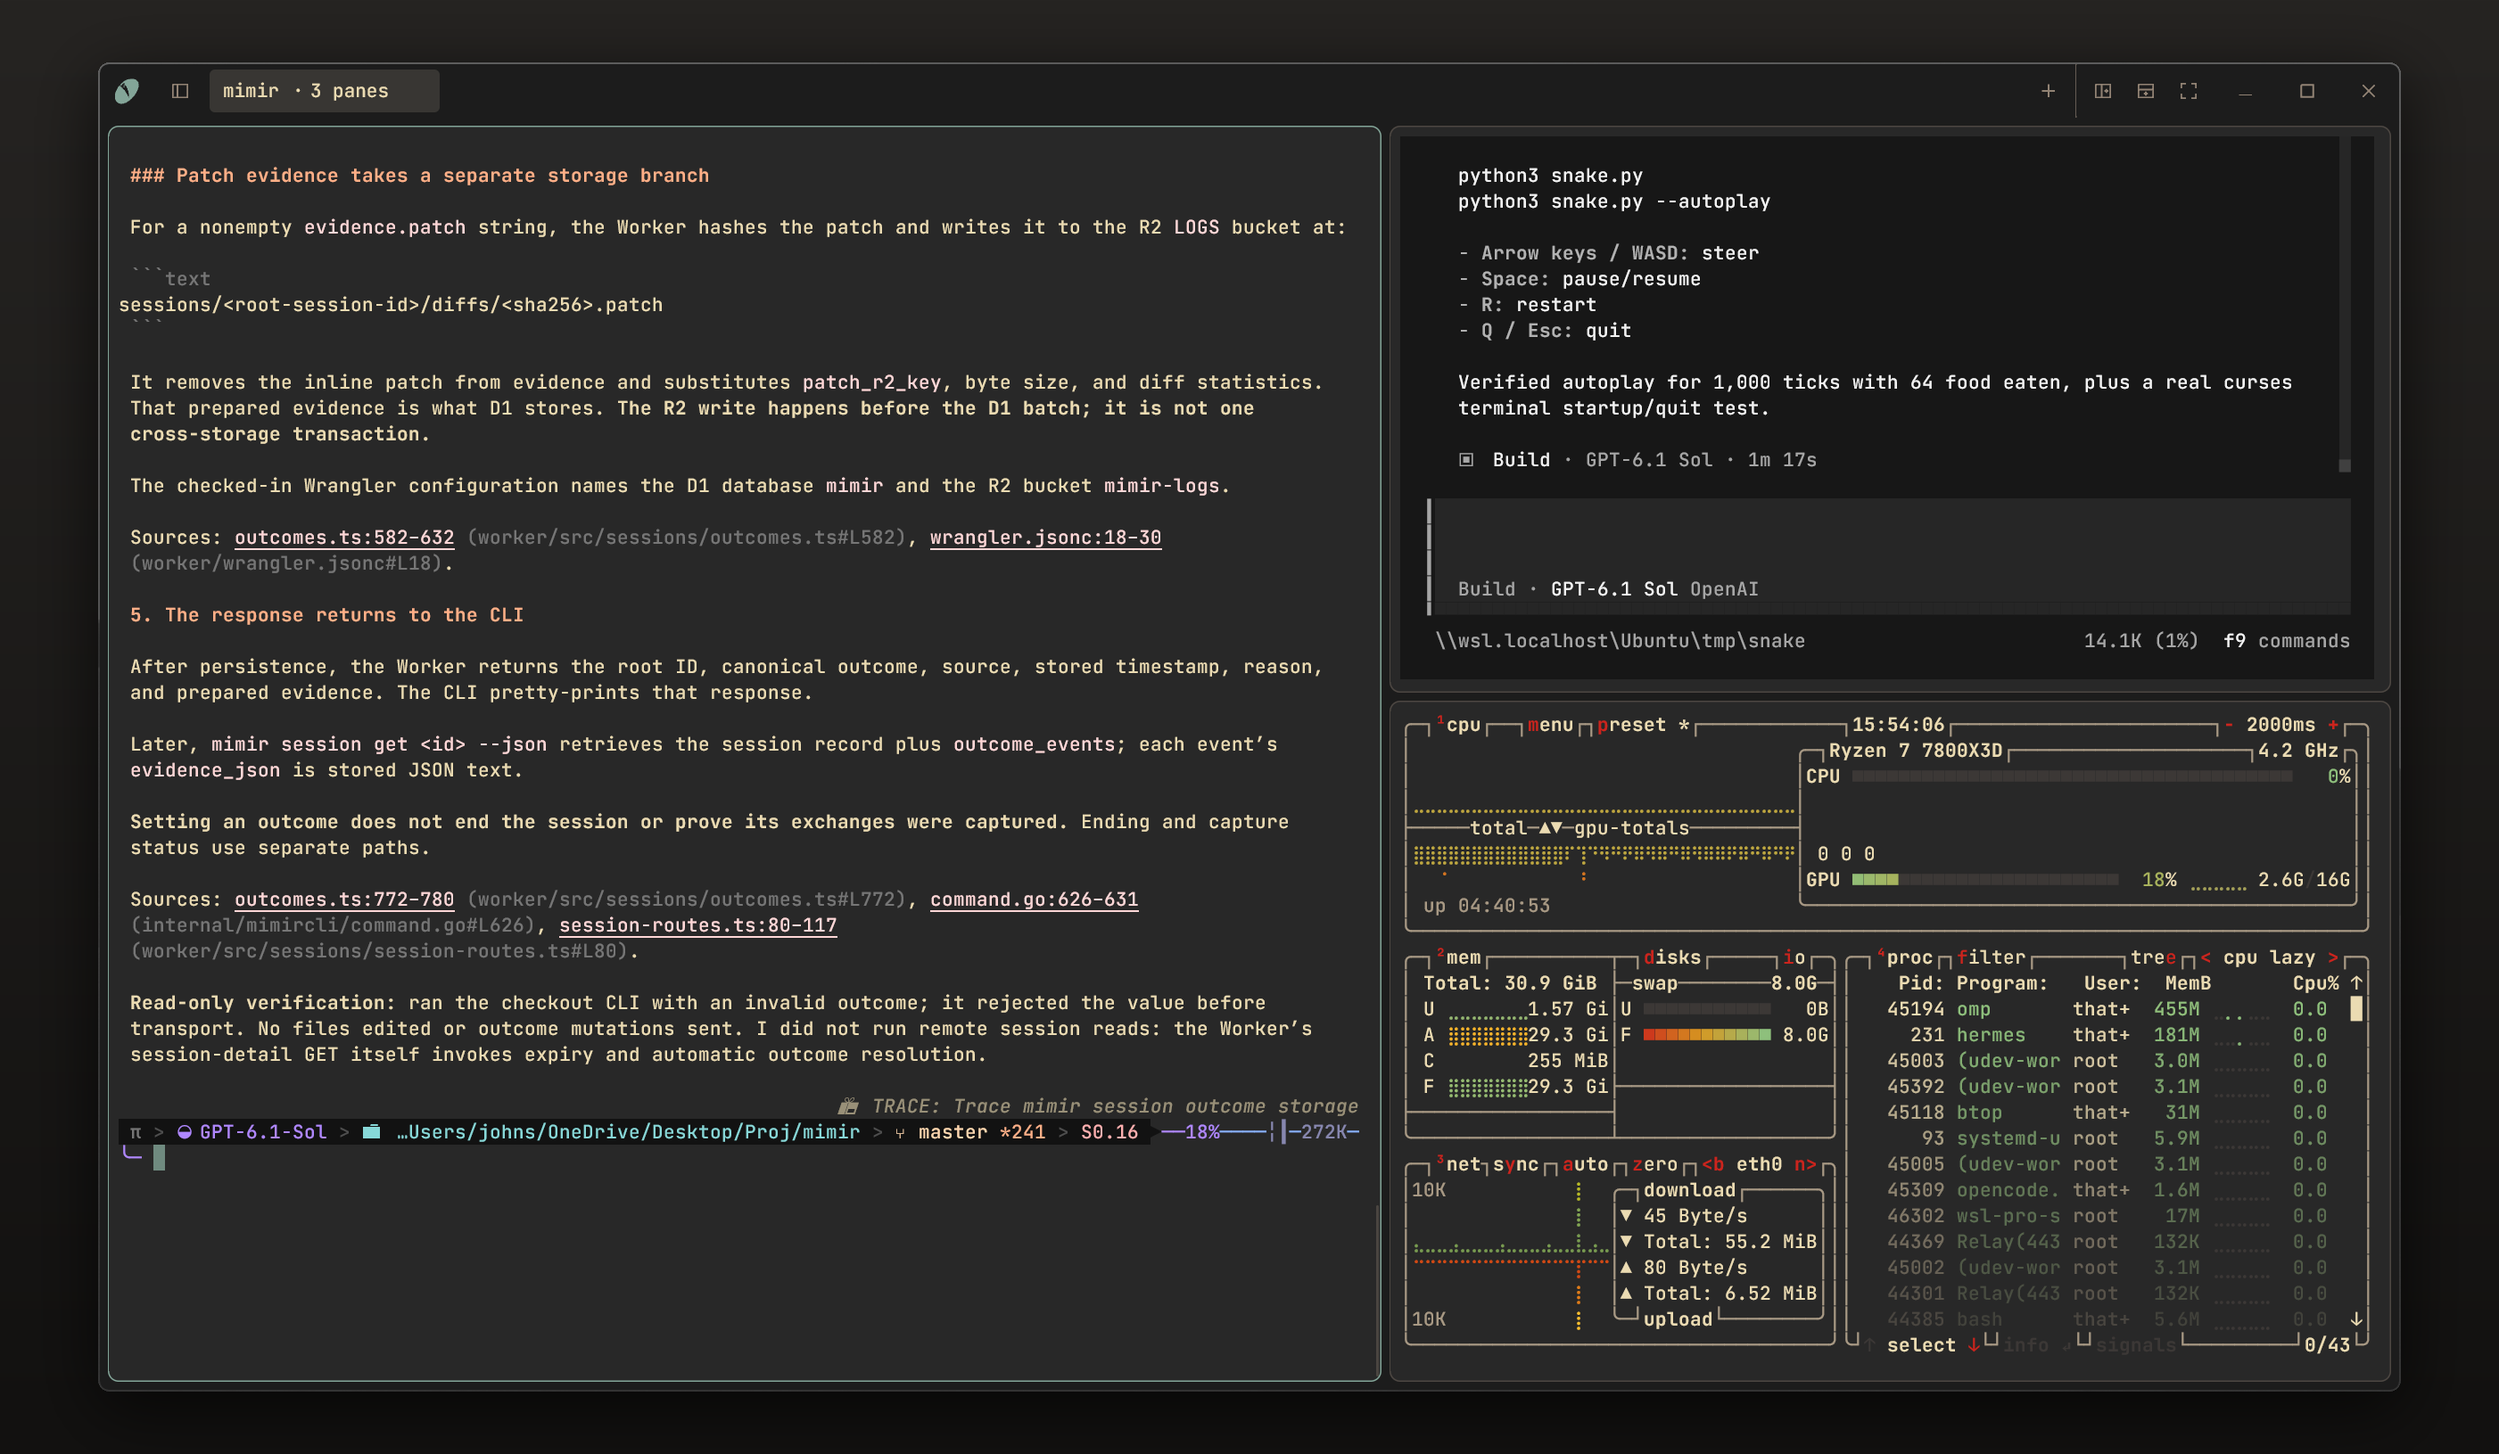
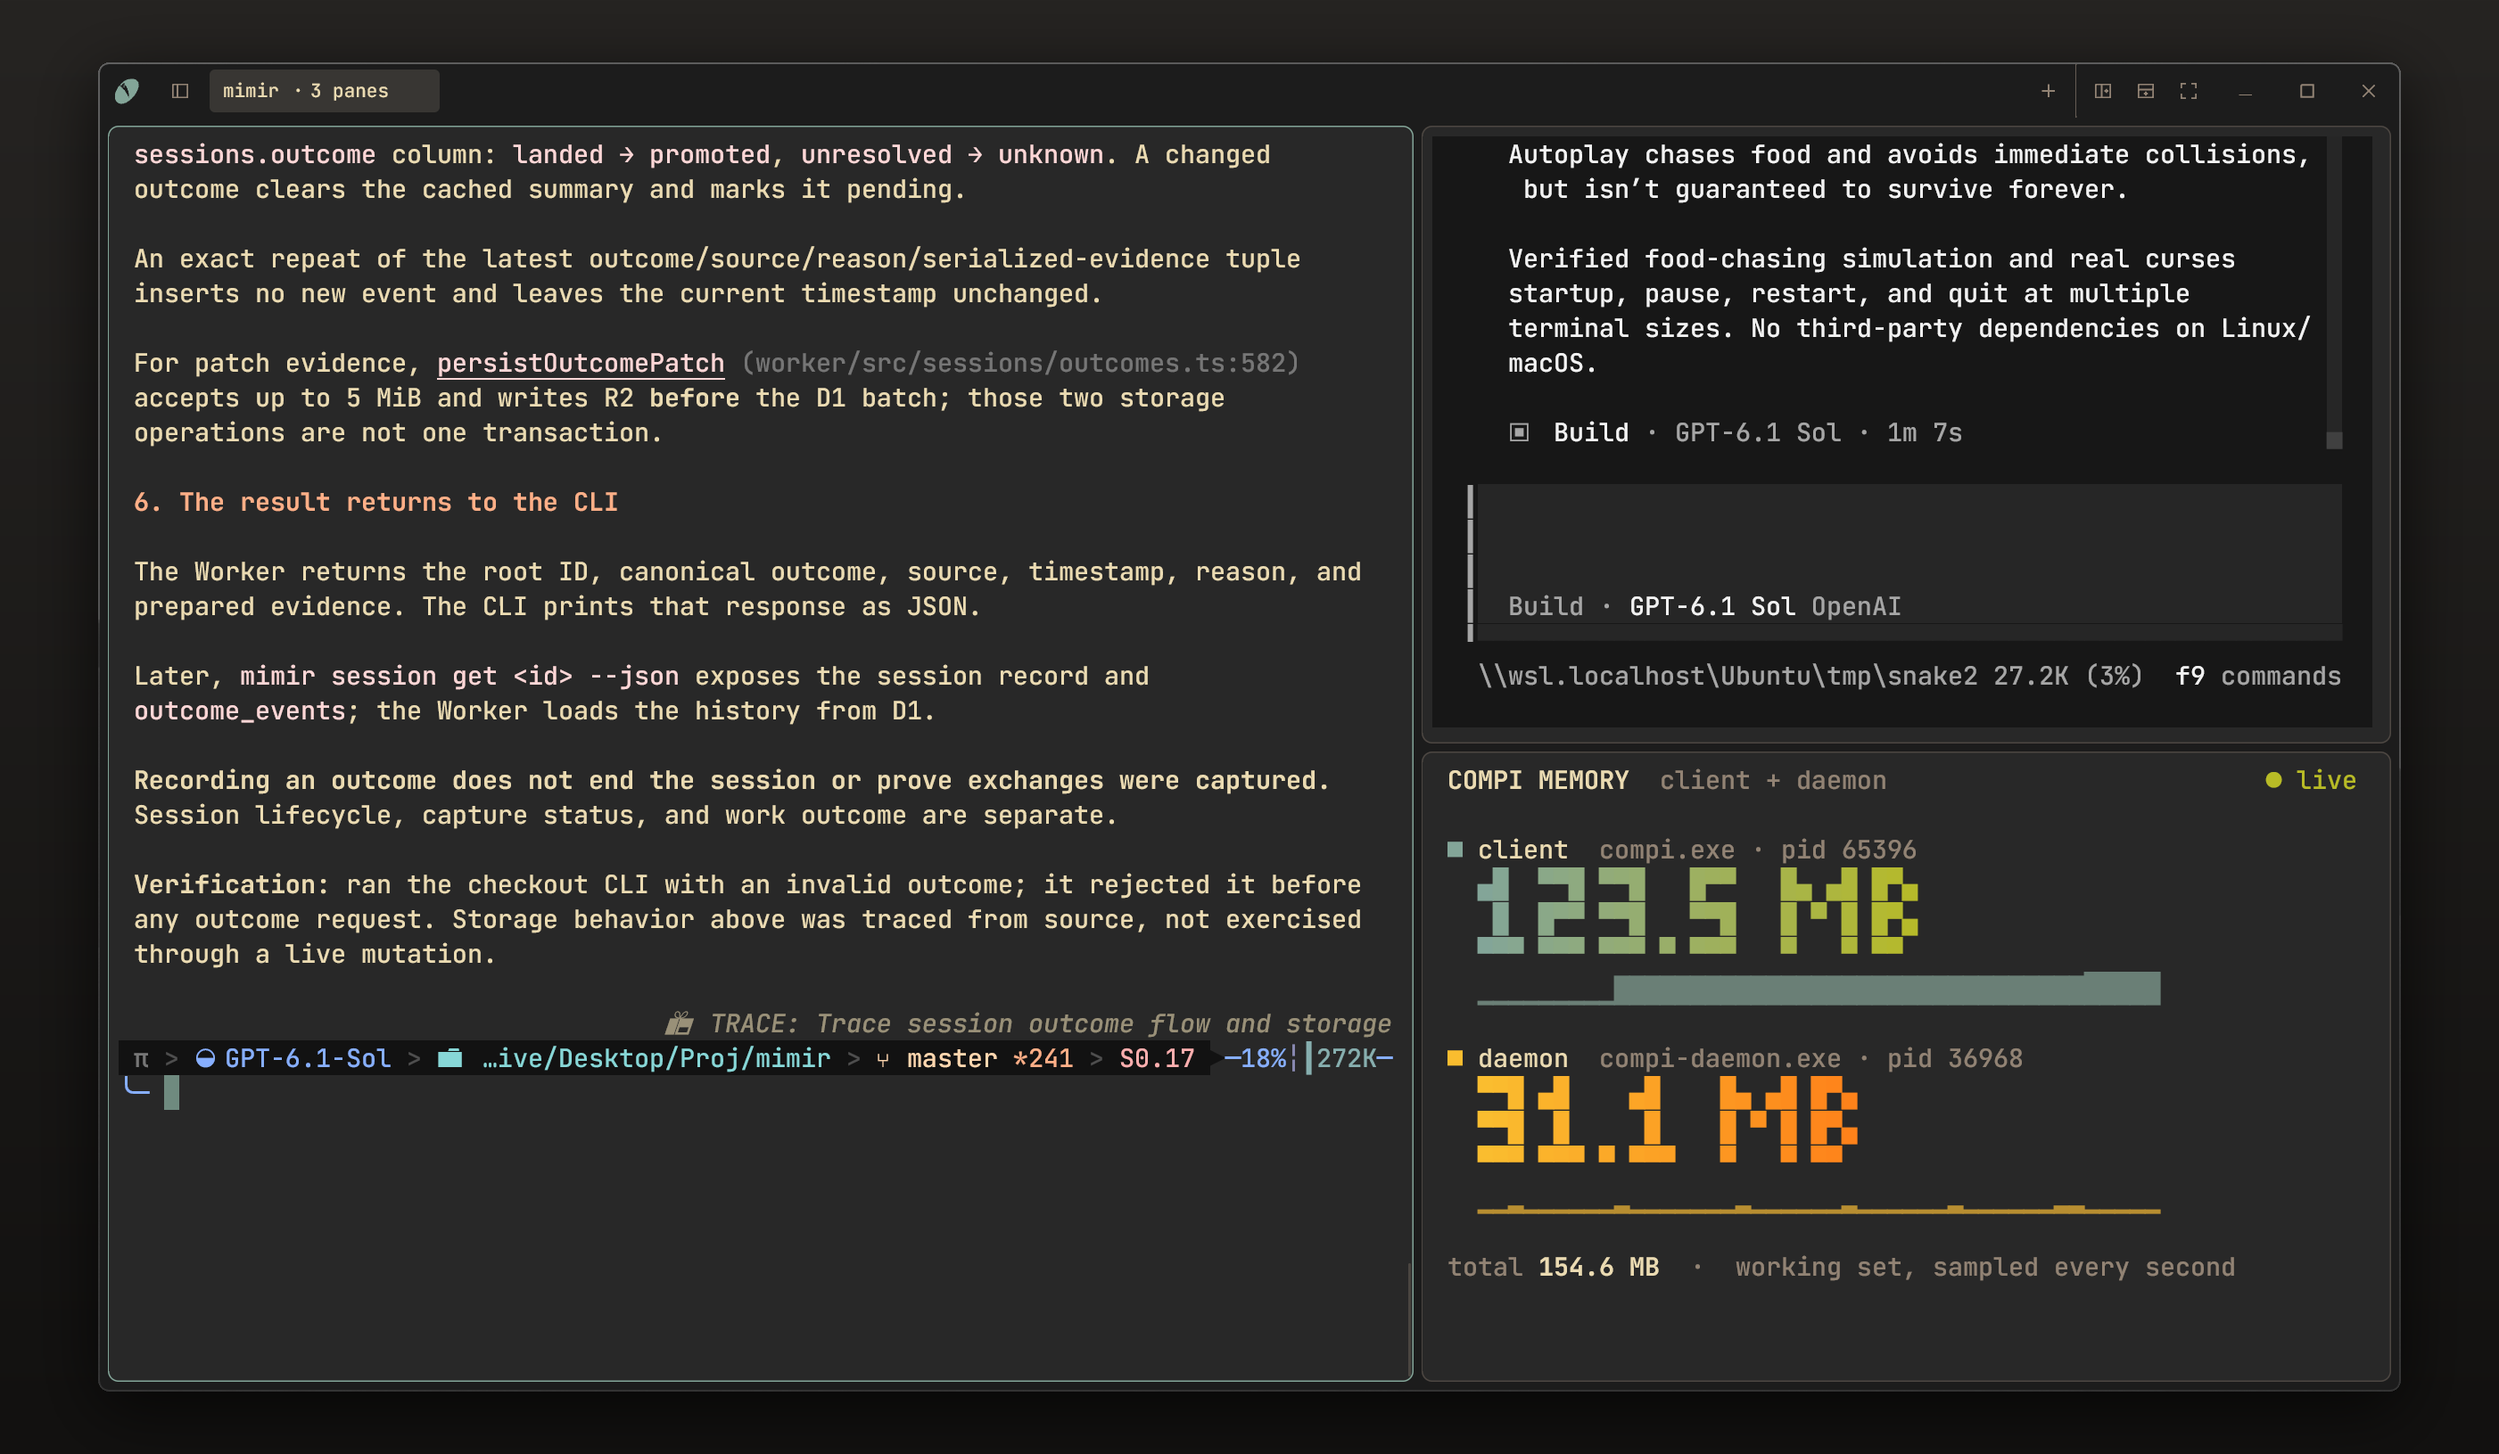
docs(release): record v0.1.7 publication and larger readme screenshot

diff --git a/docs/dev/RELEASE-FLOW.md b/docs/dev/RELEASE-FLOW.md
@@ -53,11 +53,15 @@ Publisher signing/notarization and signed updater metadata are separate concerns
 
 `docs/user/release-notes.md` is the one source. The client embeds it at build time and shows it only when its heading matches the client version: once as the **What's new** card in the sidebar after an update (an accent dot on the sidebar button until the sidebar is opened; the card until its × is clicked), and always under **What's new in <version>** in **Settings → Updates**. The workflow signs it into the update metadata, which the update dialog shows before installing, and uses it as the draft GitHub release body. Editing only the GitHub description afterward changes neither the app nor the updater, so write final notes before tagging.
 
-## Latest release: v0.1.6
+## Latest release: v0.1.7
+
+Published 2026-10-09 as the stable latest release from tag `v0.1.7` (`d23c0c2`). Agent CLI with pane metadata, `compi update`/`changes`/`--version`, Comfy pane density, WSL startup speedups, lost shells restarting in their last folder, and one-click End. The first tag (`0e87486`) failed Linux core CI because `compi update` imported the desktop-only window host; the fix was committed and the unpublished tag moved before any draft existed. Read back: 12 assets; signed Windows metadata with version 0.1.7, protocol 18, qualified daemon 0.1.7 and the full notes, and an update-package hash matching `SHA256SUMS.txt`. Protocol 16 → 18, so updating from 0.1.6 restarts the daemon and ends shells. Checked on Windows before tagging: the full Windows test suite, Linux core CI steps in WSL, the local package smoke (launch, attached PTY, sibling daemon, reconnect). Not yet exercised: the in-app update from an installed 0.1.6, and the macOS app on a native Mac.
+
+## Previous release: v0.1.6
 
 Published 2026-10-07 as the stable latest release from tag `v0.1.6` (`208c712`). New Updates page, Setup's repair doctor (`--repair`, also reached through in-app **Repair Compi**), Setup upgrading installs stuck on 0.1.3, plain Setup errors, task owner compared by SID, and Remove working from any Setup build. Read back: 12 assets including stable `Compi-Setup.exe` and the signed `compi-setup-windows-x86_64.json`, whose hash matches both Setup files; update metadata version 0.1.6, protocol 16, qualified daemon 0.1.6, so updating from 0.1.5 restarts the daemon. Checked on Windows before tagging: Setup over the published 0.1.5 with a live shell kept the 0.1.5 daemon and shell, and the 0.1.6 app attached to it. Not yet exercised: the in-app update from 0.1.5 against this release, and in-app Repair Compi.
 
-## Previous release: v0.1.5
+## Older release: v0.1.5
 
 Fix release for the update blocker found right after v0.1.4: on Windows, closing the console window of the sign-in task's supervisor killed it while its daemon kept running, and the 0.1.3 updater then refused to inspect that daemon ("cannot match target supervisor lifecycle identity"). v0.1.5 detaches the supervisor from its console and treats an exited supervisor as an unsupervised daemon. Installs still on 0.1.3 run their own old check, so the notes give the one-time `--shutdown` command to unstick them.
 

diff --git a/docs/dev/NEXT_STEPS.md b/docs/dev/NEXT_STEPS.md
@@ -50,6 +50,7 @@ Work in the order below. Keep changes on the existing workspace, persistence, pr
 
 ## 4. Distribution and process discovery
 
+- Fix same-version Setup reruns. Every build gets a new MSI product code and `MajorUpgrade` does not allow same versions, so running a 0.1.7 Setup over an installed 0.1.7 registers a second product and keeps the old files (equal file versions are not overwritten). Every later Setup then stops with "Windows lists more than one Compi", and bare `msiexec /x` cannot clean up because the MSI lock helper cannot open the SYSTEM installer process. Treat Install with the installed version as Repair (`REINSTALL=ALL REINSTALLMODE=amus`) and allow same-version upgrades, then verify a rerun replaces the files and leaves one registration. Seen on the owner's machine on 2026-10-08 and recovered by removing both registrations with `UPGRADINGPRODUCTCODE` set, reinstalling, then repairing.
 - Qualify one real SSH host end to end with host-key verification and authentication: install the matching daemon, launch/attach/detach, drop the relay, reconnect to the same server and process lifetime, upload an image, and exercise the remote headless commands. Deterministic relay tests and the actual OpenSSH failure path are complete, but no reachable SSH server was available for a successful real-host run.
 - Qualify Windows signing with an Authenticode certificate and macOS Developer ID signing/notarization with Apple credentials when those credentials and a Mac are available. Unsigned Windows and ad-hoc macOS artifacts must remain explicit otherwise.
 - Run a version-to-version Windows upgrade and current clean-profile package checks on a disposable host. The existing hosted install/repair/uninstall lifecycle is complete but did not have an older release to upgrade.

diff --git a/README.md b/README.md
@@ -6,7 +6,7 @@
 
 Compi is a native terminal workspace for Windows and macOS.
 
-![Compi with three panes: an agent tracing a codebase, a second agent building a snake game, and btop](assets/compi-workspace.png)
+![Compi with three panes: an agent tracing a codebase, a second agent building a snake game, and a live view of Compi's own client and daemon memory](assets/compi-workspace.png)
 
 - Shells keep running when you close the window.
 - Workspaces, tabs, and split panes.
